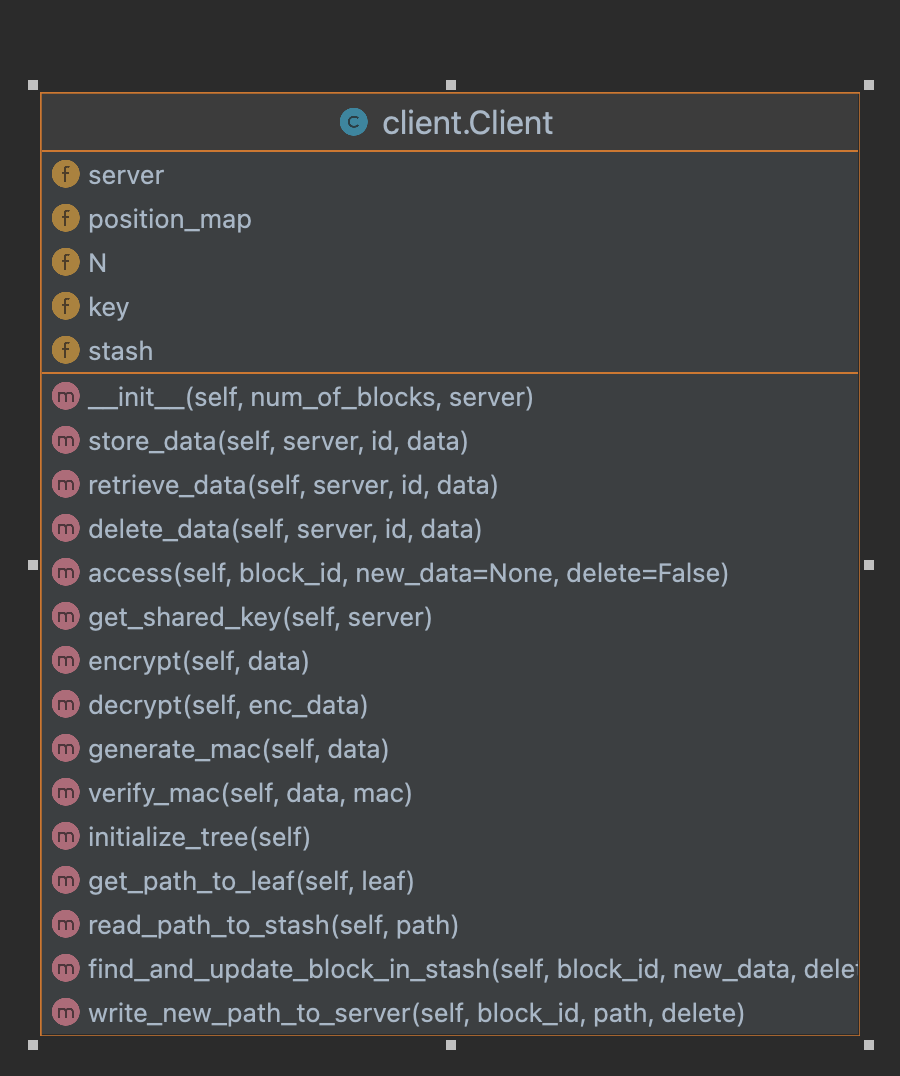
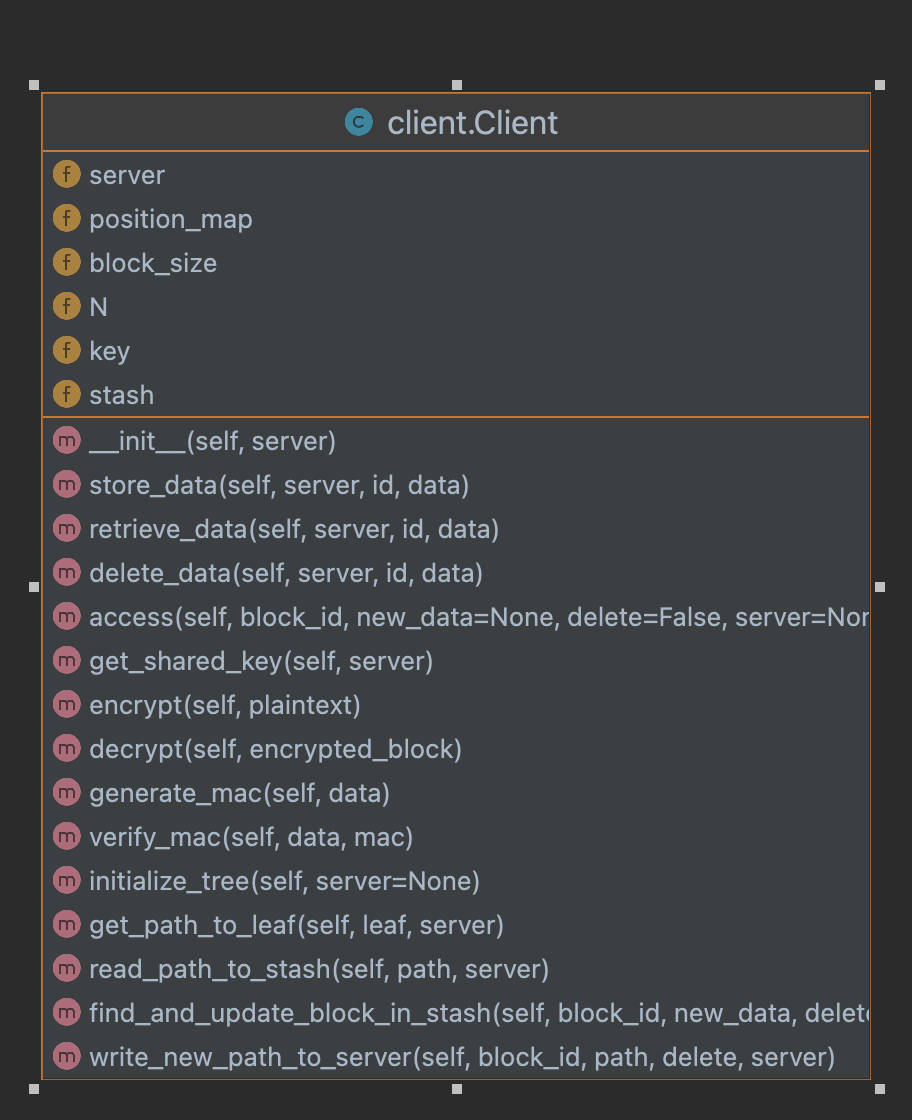
FINAL FINAL

Changed region(s): [[0.0311, 0.0613, 0.9644, 0.9814], [0.9333, 0.3374, 0.9644, 0.3987]]

diff --git a/client.py b/client.py
@@ -7,13 +7,13 @@ from server import *
 
 
 class Client():
-    def __init__(self, num_of_blocks, server):
-        self.N = num_of_blocks
+    def __init__(self, server):
         self.server = server
+        self.N = self.server.N
         self.get_shared_key(self.server)
         self.stash = []
         self.block_size = self.server.bucket_size
-        self.position_map = {i: random.randint(0, 2 ** server.tree_height - 1) for i in range(num_of_blocks)}
+        self.position_map = {i: random.randint(0, 2 ** server.tree_height - 1) for i in range(self.N)}
         self.initialize_tree()
 
     # The client stores data associated with an ID on the server by calling:
@@ -40,6 +40,8 @@ class Client():
             server = self.server
             self.key = server.share_key()
             self.initialize_tree(server=server)
+        else:
+            self.N = server.N
 
         # Handling non-existing blocks
         if block_id not in self.position_map:
@@ -49,7 +51,7 @@ class Client():
         path = self.get_path_to_leaf(leaf, server=server)
 
         self.read_path_to_stash(path, server=server)
-        data = self.find_and_update_block_in_stash(block_id, new_data, delete, server=server)
+        data = self.find_and_update_block_in_stash(block_id, new_data, delete)
 
         self.write_new_path_to_server(block_id, path, delete, server=server)
 
@@ -64,8 +66,8 @@ class Client():
 
     # Encryption of data using CTR Mode
     def encrypt(self, plaintext):
-        plaintext = plaintext.ljust(self.block_size).encode('utf-8')  # Ensure plaintext is bytes and block size
-        nonce = get_random_bytes(8)  # 8-byte nonce
+        plaintext = plaintext.ljust(self.block_size).encode('utf-8')
+        nonce = get_random_bytes(8)
         ctr = Counter.new(64, prefix=nonce)
         cipher = AES.new(self.key, AES.MODE_CTR, counter=ctr)
         ciphertext = cipher.encrypt(plaintext)
@@ -98,6 +100,8 @@ class Client():
         if server is None:
             server = self.server
             self.key = server.share_key()
+        else:
+            self.N = server.N
 
         for i in range(self.N):
             leaf = self.position_map[i]
@@ -117,7 +121,7 @@ class Client():
             if not placed:
                 self.stash.append({'id': i, 'data': encrypted_data, 'valid': 0, 'mac': mac})
 
-    # Fine the indexes path inside a binary tree on a way to a leaf
+    # Find the indexes path inside a binary tree on a way to a leaf
     # To use on storage inside the server
     def get_path_to_leaf(self, leaf, server):
         path = []
@@ -138,7 +142,7 @@ class Client():
     # In case we set the new_data argument, we shall update this
     # block to contain the new data
     # The function returns the "old" data from the block
-    def find_and_update_block_in_stash(self, block_id, new_data, delete, server):
+    def find_and_update_block_in_stash(self, block_id, new_data, delete):
         data = None
 
         for block in self.stash:
@@ -155,9 +159,9 @@ class Client():
                     block['data'] = self.encrypt('NULL')
                     block['valid'] = 0
                 elif new_data is not None:
-                    # If we wish to update the data in this block, we will change the data to to the desired value
-                    encrypted_data = self.encrypt(new_data)
+                    # If we wish to update the data in this block, we will change the data to the desired value
                     block['valid'] = 1
+                    encrypted_data = self.encrypt(new_data)
                     block['data'] = encrypted_data
                     block['mac'] = self.generate_mac(encrypted_data)
                 break
@@ -172,6 +176,7 @@ class Client():
             new_leaf = random.randint(0, 2 ** server.tree_height - 1)
             self.position_map[block_id] = new_leaf
 
+        # Now we wish to create the new path to write to the tree in Server
         updated_path_data = []
 
         # Iterate through each bucket ID in the path from the root to the leaf node.
@@ -181,8 +186,19 @@ class Client():
             # For each block inside the stash,
             # Check if the current bucket ID is part of the path from root to the block.
             # If so, add it do the updated data path.
-            bucket = [block for block in self.stash if
-                      bucket_id in self.get_path_to_leaf(self.position_map[block['id']], server)]
+            # Initialize an empty list to hold the blocks that meet the condition
+            bucket = []
+
+            for block in self.stash:
+                block_position = self.position_map[block['id']]
+
+                # Get the path to the leaf node using the block's position
+                path_to_leaf = self.get_path_to_leaf(block_position, server)
+
+                # Check if the bucket_id is in the path to the leaf node
+                if bucket_id in path_to_leaf:
+                    bucket.append(block)
+
             updated_path_data.append(bucket[:server.bucket_size])
 
             # Evict the relevant blocks from the stash

diff --git a/main.py b/main.py
@@ -15,7 +15,7 @@ def benchmark_throughput(num_blocks_list, num_requests):
 
     for num_blocks in num_blocks_list:
         server = Server(num_of_blocks=num_blocks)
-        client = Client(server=server, num_of_blocks=num_blocks)
+        client = Client(server=server)
 
         # Preload the server with data
         for i in range(num_blocks):
@@ -36,7 +36,7 @@ def benchmark_throughput(num_blocks_list, num_requests):
 
 def benchmark_latency(num_blocks, num_requests, max_threads):
     server = Server(num_of_blocks=num_blocks)
-    client = Client(server=server, num_of_blocks=num_blocks)
+    client = Client(server=server)
 
     latency_results = []
 
@@ -110,7 +110,7 @@ if __name__ == '__main__':
 
     print("Benchmarking Throughput:")
     for _ in range(num_of_iterations):
-        print("Iteration: " + str(_) + "\n")
+        print("\nIteration: " + str(_) + "\n")
         throughput_results.append(benchmark_throughput(num_blocks_list, num_requests))
 
     throughput_results_average = []
@@ -126,7 +126,7 @@ if __name__ == '__main__':
     max_threads = 25
 
     for _ in range(num_of_iterations):
-        print("Iteration: " + str(_) +"\n")
+        print("\nIteration: " + str(_) + "\n")
         latency_results.append(benchmark_latency(num_blocks, num_requests, max_threads))
 
     latency_results_average = []

diff --git a/test.py b/test.py
@@ -16,7 +16,7 @@ if __name__ == '__main__':
             print("Performing test " + str(k + 1) + " with " + str(num_of_blocks) + " blocks")
 
         server = Server(num_of_blocks=num_of_blocks)
-        client = Client(server=server, num_of_blocks=num_of_blocks)
+        client = Client(server=server)
 
         # Access data from blocks
         for i in range(num_of_blocks):
